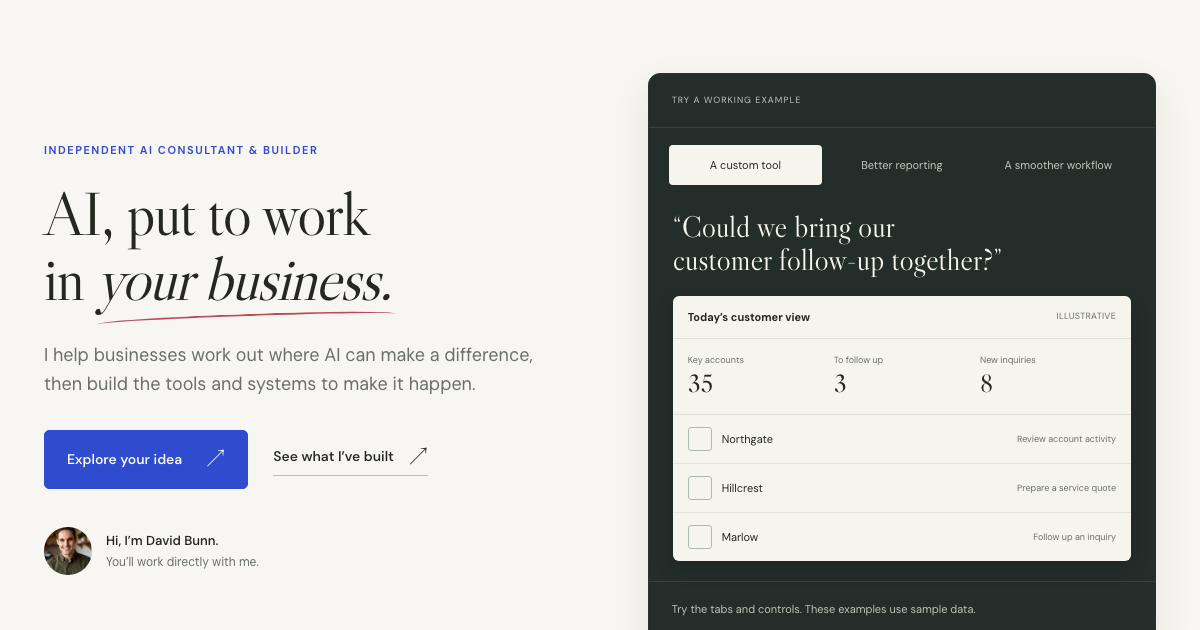
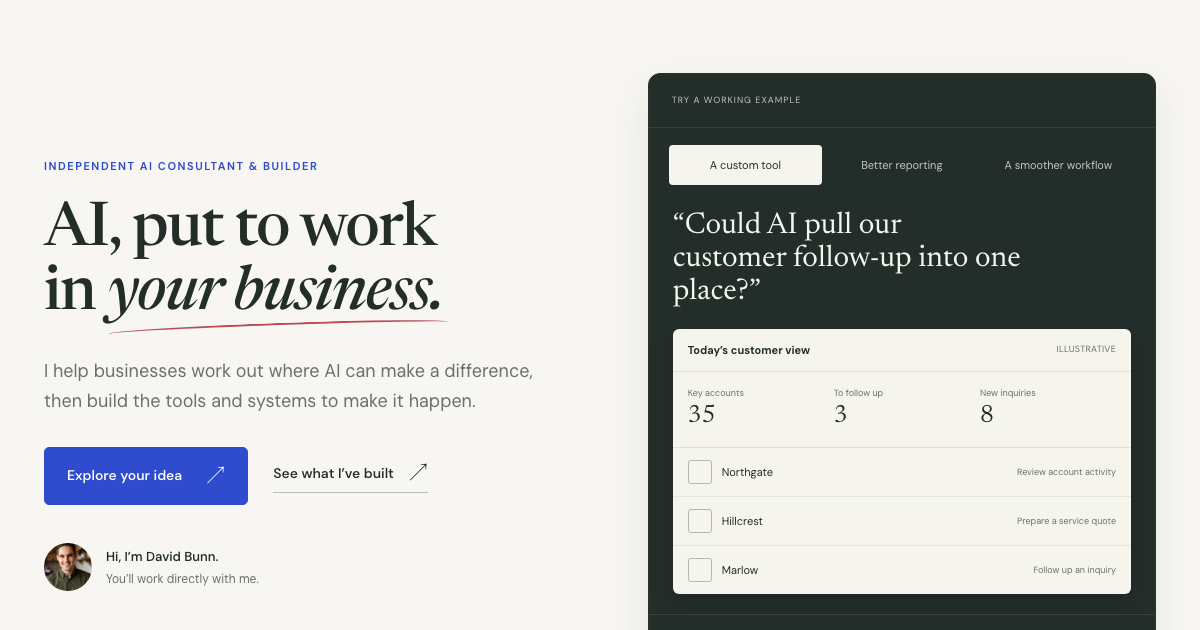
Homepage example: the first question names AI

diff --git a/app.js b/app.js
@@ -111,7 +111,7 @@ function renderDemo() {
   });
   el.setAttribute("aria-labelledby", "demo-tab-" + demoType);
   if (demoType === "tool")
-    el.innerHTML = `<p class="demo-question">“Could we bring our<br>customer follow-up together?”</p><div class="demo-preview"><div class="preview-title"><b>Today’s customer view</b><span>ILLUSTRATIVE</span></div><div class="demo-stats"><div><small>Key accounts</small><b>35</b></div><div><small>To follow up</small><b id="followup-count">${3 - doneTasks.size}</b></div><div><small>New inquiries</small><b>8</b></div></div>${[
+    el.innerHTML = `<p class="demo-question">“Could AI pull our<br>customer follow-up into one place?”</p><div class="demo-preview"><div class="preview-title"><b>Today’s customer view</b><span>ILLUSTRATIVE</span></div><div class="demo-stats"><div><small>Key accounts</small><b>35</b></div><div><small>To follow up</small><b id="followup-count">${3 - doneTasks.size}</b></div><div><small>New inquiries</small><b>8</b></div></div>${[
       ["Northgate", "Review account activity"],
       ["Hillcrest", "Prepare a service quote"],
       ["Marlow", "Follow up an inquiry"],
